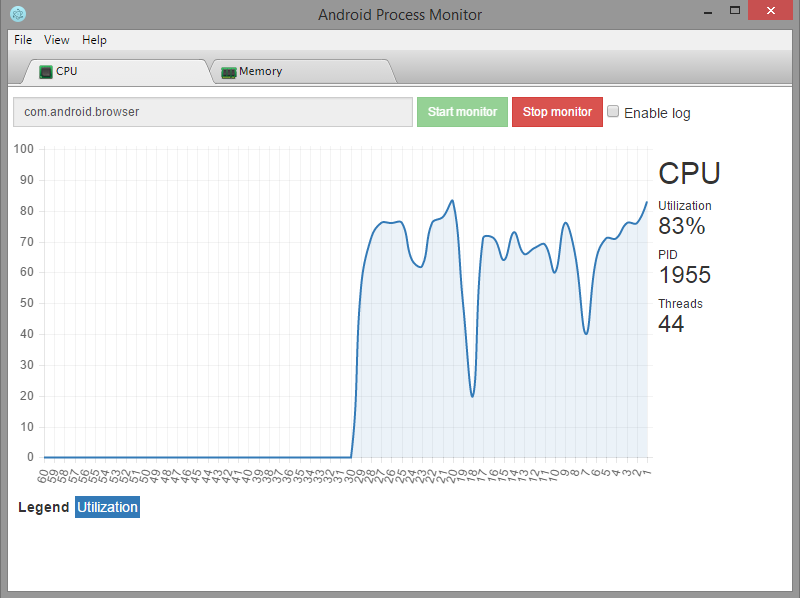
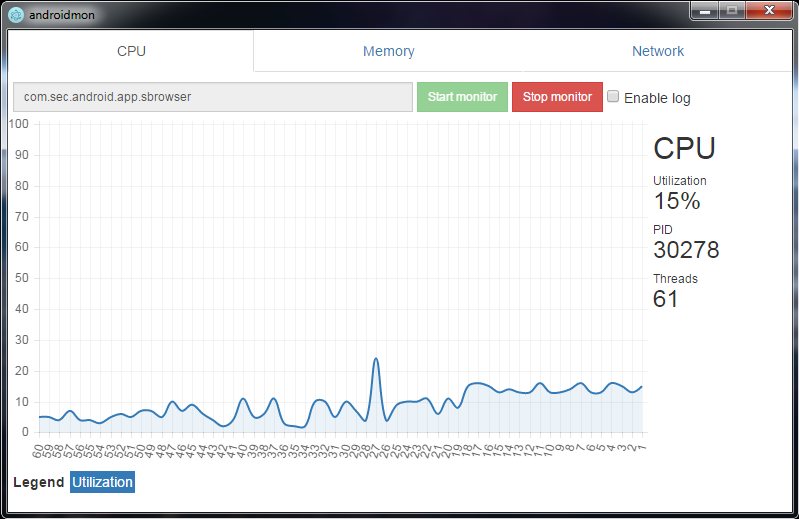
Update screenshots

Changed region(s): [[0.0, 0.0, 1.0, 1.0], [0.811, 0.2466, 0.9011, 0.3083]]

diff --git a/README.md b/README.md
@@ -29,7 +29,10 @@ Start the application by running androidmon.bat or run the following command at 
 ## Screenshots
 
 Cpu chart:<br>
-<img src="https://github.com/zulhilmizainuddin/androidmon/blob/master/screenshots/cpu-screenshot.png" width="640px" height="480px">
+<img src="https://github.com/zulhilmizainuddin/androidmon/blob/master/screenshots/cpu-screenshot.png">
 
 Memory chart:<br>
-<img src="https://github.com/zulhilmizainuddin/androidmon/blob/master/screenshots/memory-screenshot.png" width="640px" height="480px">
+<img src="https://github.com/zulhilmizainuddin/androidmon/blob/master/screenshots/memory-screenshot.png">
+
+Network chart:<br>
+<img src="https://github.com/zulhilmizainuddin/androidmon/blob/master/screenshots/network-screenshot.png">
